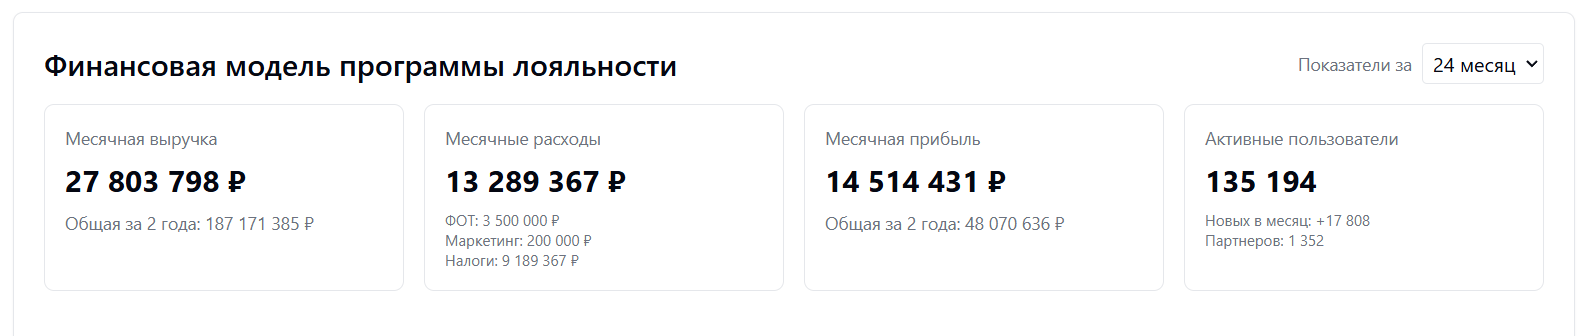
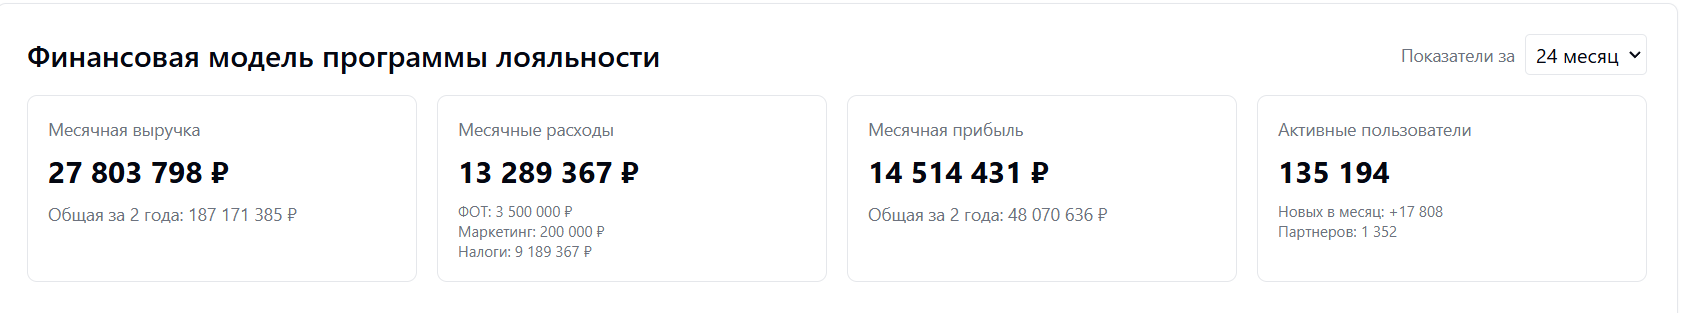
Agent query: Are the main metrics now displayed in a clear format with proper Russian labels and additional details?
Enhance Streamlit app to display total revenue and profit over two years, along with detailed monthly breakdowns and additional user metrics.

Screenshot: https://storage.googleapis.com/screenshot-production-us-central1/f5e095a3-f525-4b15-8ae3-3ce0f434ca6e/797d4658-1d00-419f-9656-82bef493ec71.jpg

diff --git a/main.py b/main.py
@@ -124,20 +124,50 @@ def main():
         selected_month = st.selectbox("Select Month", range(1, 25), 23)
         month_data = data[selected_month - 1]
         
-        # Create metrics columns
+        # Calculate totals
+        total_revenue = sum(d['revenue'] for d in data)
+        total_profit = sum(d['profit'] for d in data)
+        
+        # Create metrics columns with detailed information
         col1, col2, col3, col4 = st.columns(4)
         
         with col1:
-            st.metric("Revenue", f"₽{month_data['revenue']:,.2f}")
+            st.markdown("### Месячная выручка")
+            st.markdown(f"### {month_data['revenue']:,.0f} ₽")
+            st.markdown(f"Общая за 2 года: {total_revenue:,.0f} ₽")
         
         with col2:
-            st.metric("Expenses", f"₽{month_data['expenses']:,.2f}")
+            st.markdown("### Месячные расходы")
+            st.markdown(f"### {month_data['expenses']:,.0f} ₽")
+            st.markdown("""
+            <div style='font-size: 0.8em; color: gray;'>
+            ФОТ: {fot:,.0f} ₽<br>
+            Маркетинг: {marketing:,.0f} ₽<br>
+            Налоги: {taxes:,.0f} ₽
+            </div>
+            """.format(
+                fot=month_data['fot'],
+                marketing=month_data['marketing'],
+                taxes=month_data.get('taxes', 0)
+            ), unsafe_allow_html=True)
             
         with col3:
-            st.metric("Profit", f"₽{month_data['profit']:,.2f}")
+            st.markdown("### Месячная прибыль")
+            st.markdown(f"### {month_data['profit']:,.0f} ₽")
+            st.markdown(f"Общая за 2 года: {total_profit:,.0f} ₽")
             
         with col4:
-            st.metric("Active Users", f"{month_data['active_users']:,.0f}")
+            st.markdown("### Активные пользователи")
+            st.markdown(f"### {month_data['active_users']:,.0f}")
+            st.markdown("""
+            <div style='font-size: 0.8em; color: gray;'>
+            Новых в месяц: +{new_users:,.0f}<br>
+            Партнеров: {partners:,.0f}
+            </div>
+            """.format(
+                new_users=month_data['total_new_users'],
+                partners=month_data['active_users'] / 100
+            ), unsafe_allow_html=True)
         
         # Display charts
         st.subheader("Revenue and Expenses Over Time")
